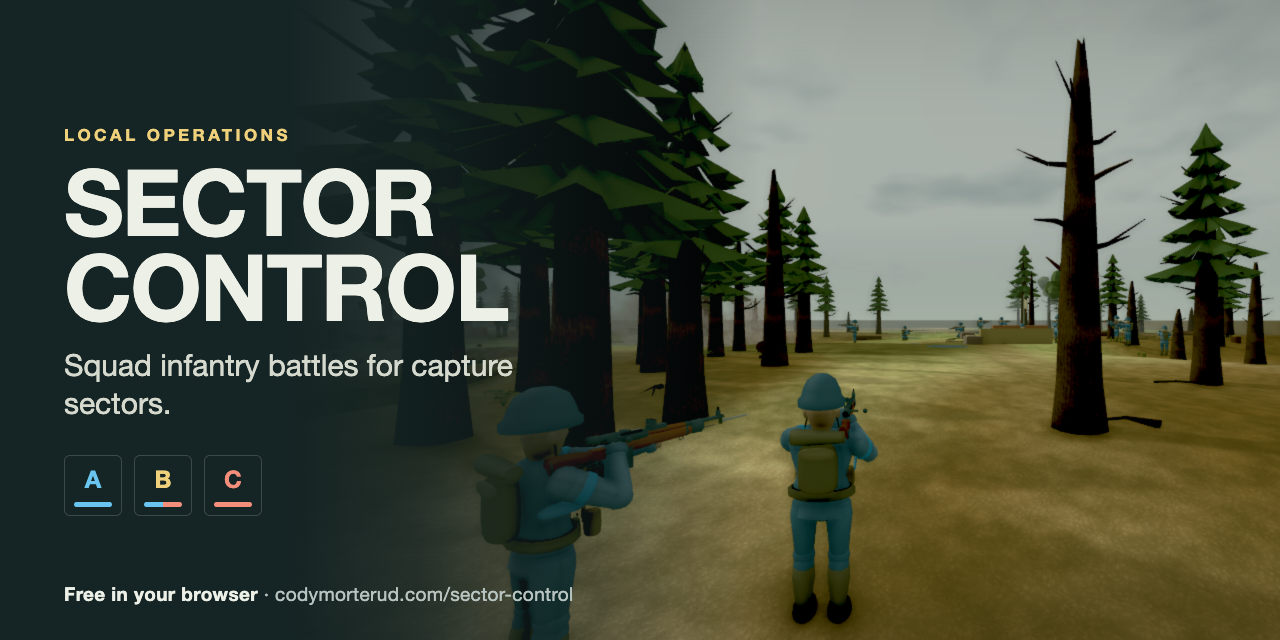
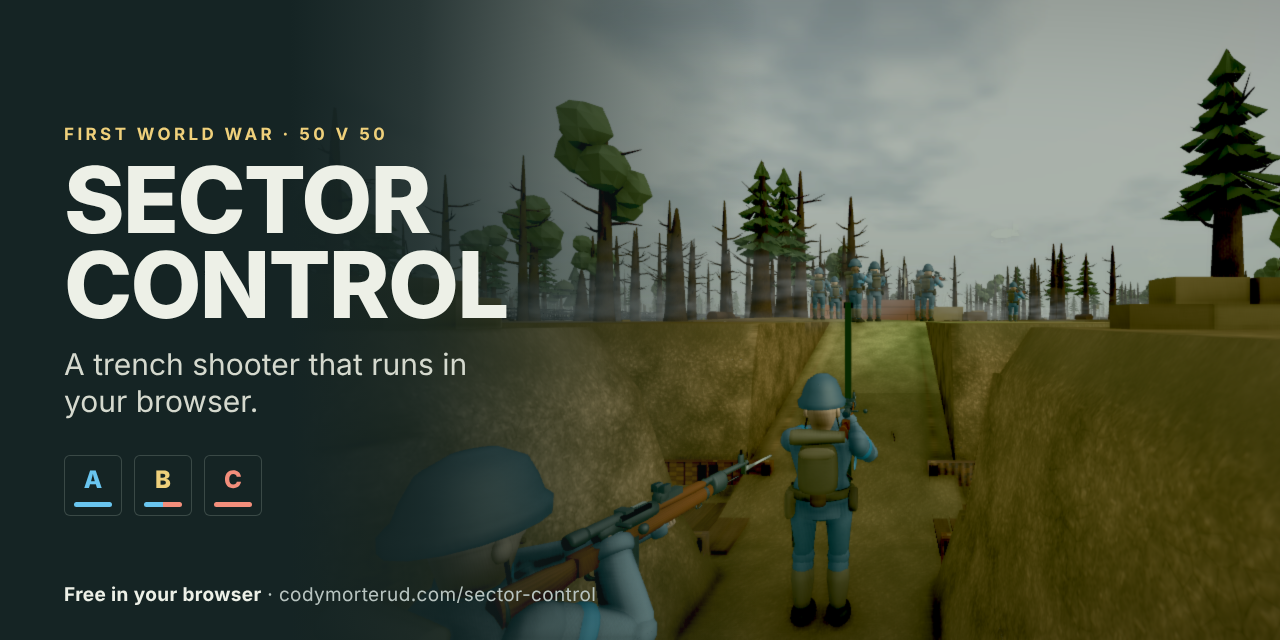
Make the repo and game page easier to discover (#122)
Lead the README with a one-line pitch, a Play button, badges, a gameplay
GIF, a short "Why play it" list and screenshots, and fold the long feature
list into a collapsible section. Give the game page a clearer title and
description, explicit Twitter card tags, a canonical link and VideoGame
structured data. Regenerate both social previews with a WW1 tagline over
a Verdun trench shot.

Claude-Session: https://claude.ai/code/session_01TQNBdsvW6qcKDotnYrSRqp

diff --git a/index.html b/index.html
@@ -3,8 +3,8 @@
   <head>
     <meta charset="UTF-8" />
     <meta name="viewport" content="width=device-width, initial-scale=1" />
-    <title>Sector Control</title>
-    <meta name="description" content="Squad infantry battles for capture sectors. Free in your browser." />
+    <title>Sector Control: WW1 trench shooter in your browser</title>
+    <meta name="description" content="A First World War trench shooter in your browser: 50 v 50 battles with bots, artillery, gas and tanks. Free, no sign-in." />
     <meta name="theme-color" content="#202c2c" />
     <link rel="icon" href="/favicon.svg" type="image/svg+xml" />
     <link rel="icon" href="/favicon-32.png" sizes="32x32" type="image/png" />
@@ -13,14 +13,22 @@
     <!-- Link previews need absolute URLs; these point at the public site. -->
     <meta property="og:type" content="website" />
     <meta property="og:site_name" content="Sector Control" />
-    <meta property="og:title" content="Sector Control" />
-    <meta property="og:description" content="Squad infantry battles for capture sectors. Free in your browser." />
+    <meta property="og:title" content="Sector Control: a WW1 trench shooter in your browser" />
+    <meta property="og:description" content="A First World War trench shooter in your browser: 50 v 50 battles with bots, artillery, gas and tanks. Free, no sign-in." />
     <meta property="og:url" content="https://codymorterud.com/sector-control/" />
     <meta property="og:image" content="https://codymorterud.com/sector-control/social-preview.png" />
     <meta property="og:image:width" content="1200" />
     <meta property="og:image:height" content="630" />
-    <meta property="og:image:alt" content="Sector Control: a squad advancing through the Verdun forest" />
+    <meta property="og:image:alt" content="Sector Control: French soldiers moving up a trench at Verdun" />
     <meta name="twitter:card" content="summary_large_image" />
+    <meta name="twitter:title" content="Sector Control: a WW1 trench shooter in your browser" />
+    <meta name="twitter:description" content="A First World War trench shooter in your browser: 50 v 50 battles with bots, artillery, gas and tanks. Free, no sign-in." />
+    <meta name="twitter:image" content="https://codymorterud.com/sector-control/social-preview.png" />
+    <meta name="twitter:image:alt" content="Sector Control: French soldiers moving up a trench at Verdun" />
+    <link rel="canonical" href="https://codymorterud.com/sector-control/" />
+    <script type="application/ld+json">
+      {"@context":"https://schema.org","@type":"VideoGame","name":"Sector Control","url":"https://codymorterud.com/sector-control/","image":"https://codymorterud.com/sector-control/social-preview.png","description":"A First World War trench shooter in your browser: 50 v 50 battles with bots, artillery, gas and tanks. Free, no sign-in.","genre":["First-person shooter","Third-person shooter"],"gamePlatform":"Web browser","applicationCategory":"Game","operatingSystem":"Any","playMode":"SinglePlayer","isAccessibleForFree":true,"offers":{"@type":"Offer","price":"0","priceCurrency":"USD"},"codeRepository":"https://github.com/cmorterud/sector-control","license":"https://www.gnu.org/licenses/gpl-3.0.html"}
+    </script>
   </head>
   <body>
     <canvas id="game"></canvas>

diff --git a/README.md b/README.md
@@ -1,12 +1,49 @@
-# Sector Control
+<h1 align="center">Sector Control</h1>
 
-A single-player First World War shooter that runs in the browser. You fight alongside and against bots for control of flags across trench lines, a shelled forest and a destructible village, in first or third person.
+<p align="center"><b>A First World War trench shooter that runs in your browser.</b><br>
+Fight 50 v 50 battles with bots across Ypres, Verdun and seven other maps, with artillery, gas, tanks and trenches you can blow apart.<br>
+Free, no install, no sign-in.</p>
 
-![Verdun sector](public/previews/verdun.jpg)
+<p align="center">
+  <a href="https://codymorterud.com/sector-control/"><img alt="Play in your browser" src="https://img.shields.io/badge/%E2%96%B6%20Play%20now-in%20your%20browser-c8a24a?style=for-the-badge"></a>
+</p>
+<p align="center">
+  <a href="https://github.com/cmorterud/sector-control/actions/workflows/ci.yml"><img alt="Build, test, render and publish" src="https://github.com/cmorterud/sector-control/actions/workflows/ci.yml/badge.svg?branch=main"></a>
+  <a href="LICENSE"><img alt="License: GPL-3.0" src="https://img.shields.io/badge/license-GPL--3.0-blue"></a>
+  <img alt="Built with TypeScript and PlayCanvas" src="https://img.shields.io/badge/built%20with-TypeScript%20%C2%B7%20PlayCanvas-3178c6">
+</p>
 
-**[Play it in your browser](https://codymorterud.com/sector-control/)** — no sign-in. Use a desktop browser with a keyboard and mouse, and click **Begin operation** to start. Phones and tablets without a mouse see a short notice instead, with a link to share to a computer and a **Try anyway** option; add `?desktop` to the URL to skip it. Passing builds and rendered checks on `main` publish automatically through GitHub Actions.
+<p align="center"><a href="https://codymorterud.com/sector-control/"><img src="docs/media/gameplay.gif" width="720" alt="A British barrage landing on the German line across no man's land at Ypres"></a></p>
+
+## Why play it
+
+- **Big battles, no waiting.** Up to 50 soldiers a side, all bots, so a full match starts the moment you click. No accounts, no servers, no lobby.
+- **Real First World War fronts.** Ypres in the August 1917 rain, Verdun's shell-stripped woods in June 1916, a village, a coastal headland, the galleries of Fort Vaux and a Zeppelin above the clouds.
+- **Bots that fight as squads.** They move in bounds under covering fire, clear houses room by room, throw grenades, mask up against gas and go over the top when the whistle blows.
+- **Everything breaks.** Shells crater the ground, cut the wire, fell trees and bring buildings down, and the bots reroute around the damage.
+- **The whole arsenal of 1916 and 1917.** Bolt-action rifles, scoped rifles, machine guns you emplace yourself, trench mortars, flamethrowers, artillery and gas shells you call from the map, and tanks you can command.
+- **Plays well on a desktop browser.** Keyboard and mouse, first or third person, with Auto, Low, Medium or High graphics.
+
+## Screenshots
+
+<table>
+  <tr>
+    <td><img src="docs/media/screenshot-verdun.jpg" alt="A French soldier in the shell-stripped woods at Verdun"></td>
+    <td><img src="docs/media/screenshot-tank.jpg" alt="Commanding a British Mark IV tank at Ypres"></td>
+  </tr>
+  <tr>
+    <td><img src="docs/media/screenshot-village.jpg" alt="Shellfire in the streets of Village front"></td>
+    <td><img src="docs/media/screenshot-spring.jpg" alt="A British squad forming up in the morning fog on Spring Offensive"></td>
+  </tr>
+</table>
+
+**[Play it in your browser](https://codymorterud.com/sector-control/)**. Use a desktop browser with a keyboard and mouse, and click **Begin operation** to start. Phones and tablets without a mouse see a short notice instead, with a link to share to a computer and a **Try anyway** option; add `?desktop` to the URL to skip it.
 
 ## Features
+
+<details>
+<summary>The full feature list: squad AI, capture the flag, gas, rain, tanks, mortars and more</summary>
+
 
 - **Large bot battles.** Up to 50 soldiers a side, with riflemen, machine gunners, smoke-screened assaults, suppression, cover-seeking and imperfect aim.
 - **Squad AI.** Bots fight in squads of four or five under a team commander that spreads them across the flags. Squads share sightings, move in bounds while half of them cover, man windows on every floor, stack at doors, throw grenades into rooms and leave failing floors. They hear sprinting and reloading, target whoever threatens them most and route round places where teammates died. Choose Recruit, Regular or Veteran in the briefing.
@@ -33,6 +70,8 @@ A single-player First World War shooter that runs in the browser. You fight alon
 - **Readable combat feedback.** Kill confirmations, a team-colored kill feed, directional hit indicators, a brief view toward the last attack, death reports and damage-based assists. The HUD minimap shows your position, heading and flag ownership.
 - **Period factions.** Britain, France and Imperial Germany, with stylized procedural soldier and weapon models.
 - **No accounts or backend.** Soldiers, weapons, terrain and most audio are generated in code; a few landmark buildings are contributed models. There is no networking.
+
+</details>
 
 ## Maps
 
